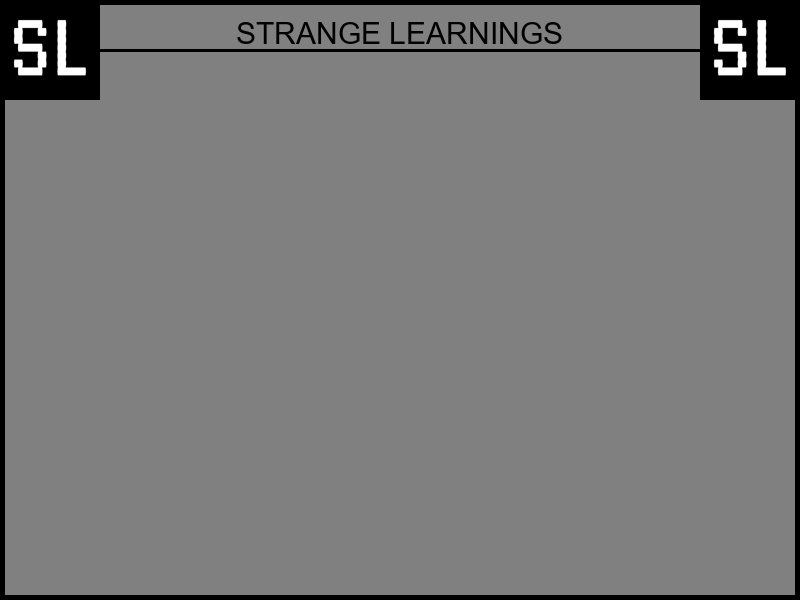
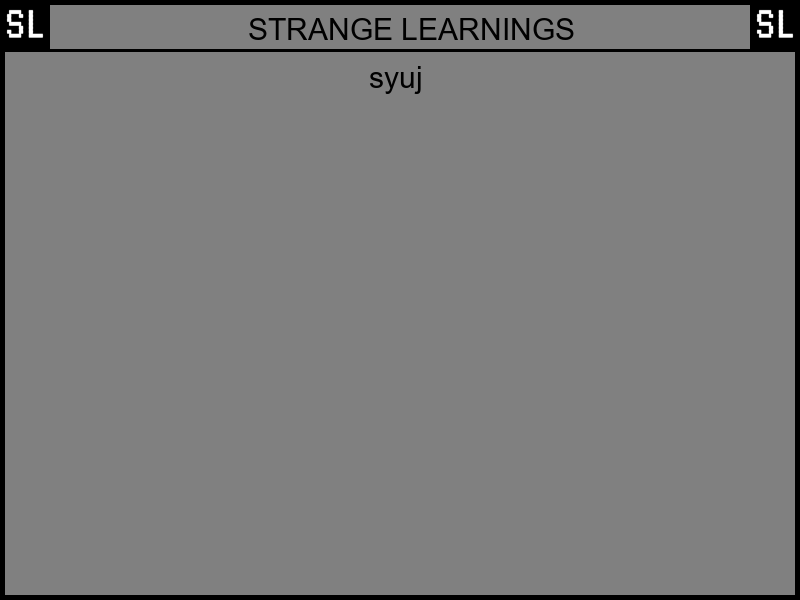
image_gen.py completed now work on text_gen.py

diff --git a/image_gen.py b/image_gen.py
@@ -1,8 +1,6 @@
-#Generating images after getting the text data from text_gen.py 
-
 from PIL import Image, ImageDraw, ImageFont
 
-def generate_image_template(width, height, background_color, border_color, border_thickness, top_space, logo_path, logo_width, logo_height, text, text_font, text_font_size):
+def generate_image_template(width, height, background_color, border_color, border_thickness, top_space, logo_path, logo_width, logo_height ,header_text , text, text_font, text_font_size):
     # Create a new image with the specified width and height
     image = Image.new("RGB", (width, height), background_color)
     
@@ -30,10 +28,36 @@ def generate_image_template(width, height, background_color, border_color, borde
     
     # Calculate the position to center the text horizontally
     text_x = (width - text_width) // 2
-    text_y = top_space // 3
+    text_y = top_space + 10  # Adjust the value as needed to leave space below the top part
     
-    # Draw the text in the center of the top part
-    draw.text((text_x, text_y), text, font=text_font, fill=(0, 0, 0))
+    # Split the text into lines to fit within the image width
+    lines = []
+    current_line = ""
+    words = text.split()
+    for word in words:
+        test_line = current_line + word + " "
+        test_width, _ = draw.textsize(test_line, font=text_font)
+        if test_width <= width:
+            current_line = test_line
+        else:
+            lines.append(current_line)
+            current_line = word + " "
+    lines.append(current_line)
+
+    # Calculate the position to center the text horizontally
+    header_text_x = (width - text_width) // 3
+    header_text_y = top_space // 4
+
+    #Draw the STRANGE LEARNINGS text
+    draw.text((header_text_x, header_text_y
+                      ), header_text, font=text_font, fill=(0, 0, 0))
+    
+    # Draw the text below the top space, adjusting for line breaks
+    for line in lines:
+        line_width, line_height = draw.textsize(line, font=text_font)
+        line_x = (width - line_width) // 2
+        draw.text((line_x, text_y), line, font=text_font, fill=(0, 0, 0))
+        text_y += line_height + 10  # Adjust the value as needed to leave space between lines
     
     # Save the image
     image.save("image_template.png")
@@ -47,11 +71,26 @@ template_border_color = (0, 0, 0)  # Black color (RGB values)
 template_border_thickness = 5
 template_top_space = 50  # Adjust this value to leave the desired space at the top
 logo_file = "logo.png"  # Path to the logo image file
-logo_width = 100  # Adjust the logo width as needed
-logo_height = 100  # Adjust the logo height as needed
-text = "STRANGE LEARNINGS"  # The text to be displayed
+logo_width = 50  # Adjust the logo width as needed
+logo_height = 50  # Adjust the logo height as needed
+header_text = "STRANGE LEARNINGS"
+text = input("Enter the text: ")  # User-provided text
 text_font = ImageFont.truetype("arial.ttf", 30)  # Font type and size
 text_font_size = 30
 
-# Generate the image template
-generate_image_template(template_width, template_height, template_background_color, template_border_color, template_border_thickness, template_top_space, logo_file, logo_width, logo_height, text, text_font, text_font_size)
+## Generate the image template
+generate_image_template(
+    template_width,
+    template_height,
+    template_background_color,
+    template_border_color,
+    template_border_thickness,
+    template_top_space,
+    logo_file,
+    logo_width,
+    logo_height,
+    header_text,
+    text,
+    text_font,
+    text_font_size,
+)

diff --git a/text_gen.py b/text_gen.py
@@ -1,1 +1,29 @@
 #get the prompt and generate text/scripts 
+
+import openai
+
+def generate_topics(keyword):
+    openai.api_key = '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'
+    prompt = f"You are a user looking for topics related to {keyword}"
+    response = openai.Completion.create(
+        engine='gpt-3.5-turbo',
+        prompt=prompt,
+        max_tokens=100,
+        temperature=0.7,
+        top_p=1.0,
+        n=1,
+        stop='\n'
+    )
+    topics = response.choices[0].text.strip()
+    return topics
+
+# Get keyword from user
+keyword = input("Enter a keyword: ")
+
+# Generate topics using OpenAI API
+topics = generate_topics(keyword)
+
+# Print generated topics
+print("Generated topics:")
+print(topics)
+
